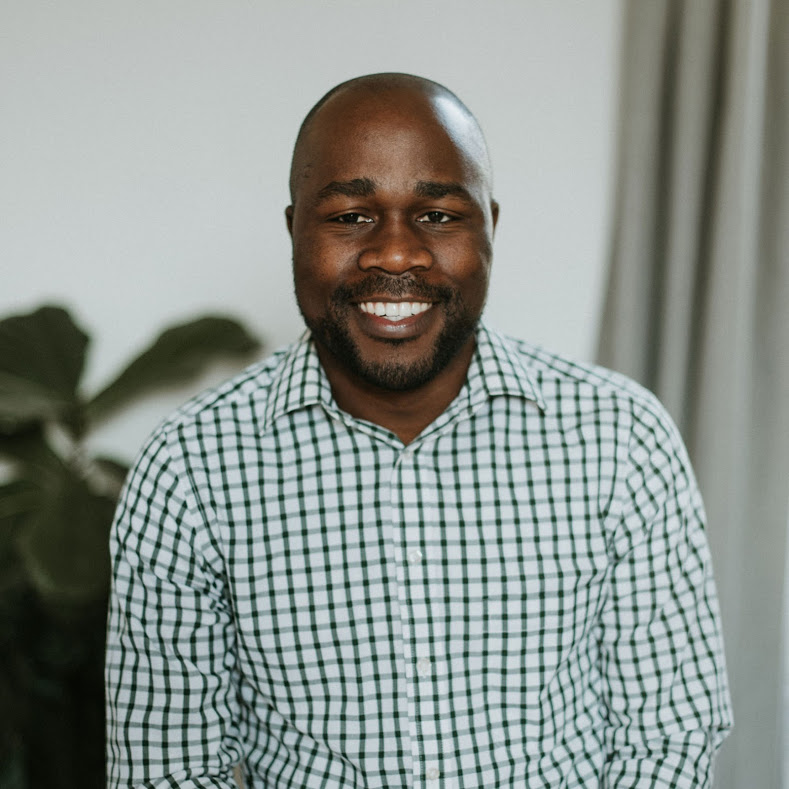
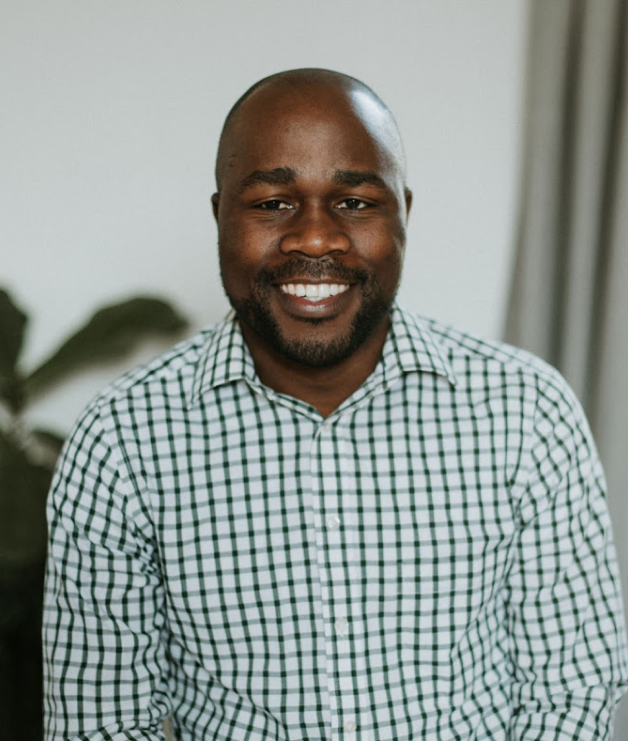
Added styling for the home section

diff --git a/index.html b/index.html
@@ -9,6 +9,7 @@
         <link rel="stylesheet" href="https://maxst.icons8.com/vue-static/landings/line-awesome/line-awesome/1.3.0/css/line-awesome.min.css">
         <link rel="preconnect" href="https://fonts.gstatic.com" crossorigin>
         <link href="https://fonts.googleapis.com/css2?family=Alkalami&family=PT+Sans:ital@1&display=swap" rel="stylesheet">
+        <link rel="stylesheet" href="https://cdn.jsdelivr.net/npm/bootstrap@5.3.0/dist/css/bootstrap.min.css">
         <link rel="stylesheet" href="assets/css/main.css">
     </head>
     <body>
@@ -70,16 +71,18 @@
                 <div class="container">
                     <div class="row">
                       <div class="col-lg-6 info">
-                        <h1><span>I'm</span>Paul,</h1>
+                        <h1><span>I'm </span>Paul,</h1>
                         <h2>Front-End web developer</h2>
                         <p>I'm a developer and crative thinker based in Louisville Kentucky.
                            I design and build modern websites and web applications using different programing languages. 
                         </p>
-                        <a href="" download="">Download Resume</a> <!-- still working on importing my resume -->
+                        <a class="btn-custom-blue" href="" download="">Download Resume</a> <!-- still working on importing my resume -->
                       </div>
-                      <div class="col-lg-6">
-                        <img src="assets/images/headshot.png" alt="picture">
+                      <div class="col-lg-6 image">
+                        <img src="assets/images/headshot.png" alt="headshot">
                       </div>
+                    </div>
+                </div> 
                   
             </section>
             <section id="about">About</section>

diff --git a/assets/css/main.css b/assets/css/main.css
@@ -4,13 +4,22 @@
   padding: 0;
   box-sizing: border-box;
 }
+h1,h2,h4,h5,h6 {
+  font-family: sans-serif;
+}
 
 p {
     /* color: bisque; */
-    font-family: "PT Sans", sans-serif;
+    font-family: sans-serif;
   }
   h1{
-    
+    font-size: 48px;
+    font-weight: 700;
+  }
+  h2{
+    font-size: 24px;
+    font-weight: 700;
+    margin-bottom: 16px;
   }
   
   body {
@@ -27,7 +36,6 @@ p {
   
   #sidebar {
     height: 100vh;
-    padding-left: 39px;
     padding-left: 39px;
     position: fixed;
     display: flex;
@@ -197,8 +205,48 @@ p {
   }
  /* Home section stlyes */
   #home {
-    .info {
+    padding-bottom: 26px;
+  }
+    
+  .info {
       padding-top: 300px;
     }
+    
+  .info h1{
+      margin-bottom: 24px;
+    }
 
-  }
+  .info h1 span{
+      color: darkslategray;
+    }
+
+  .info p{
+      max-width: 430px;
+      margin-bottom: 72px;
+    }
+
+  .info .btn-custom-blue{
+      background: black;
+      padding: 10px 50px;
+      text-decoration: none;
+      color: blue;
+      border-radius: 6px;
+      transition: all 0.3s;
+    }
+
+  .info .btn-custom-blue:hover{
+      color: white;
+    }
+
+  .image {
+      height: 100vh;
+      display: flex;
+      align-items: center;
+      justify-content: flex-end; 
+    }
+
+  .image img{
+      padding-top: 50px; 
+      border-radius: 6px;
+    }
+     
